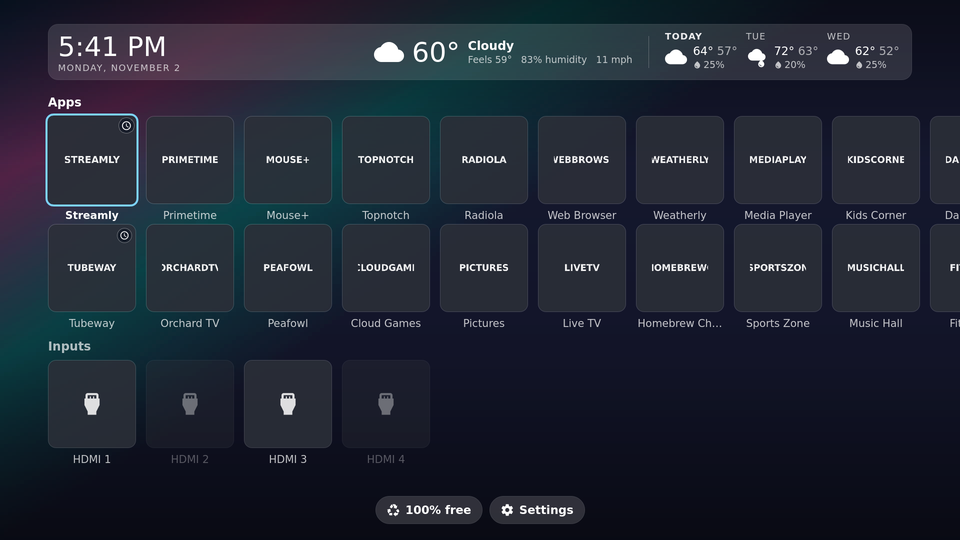
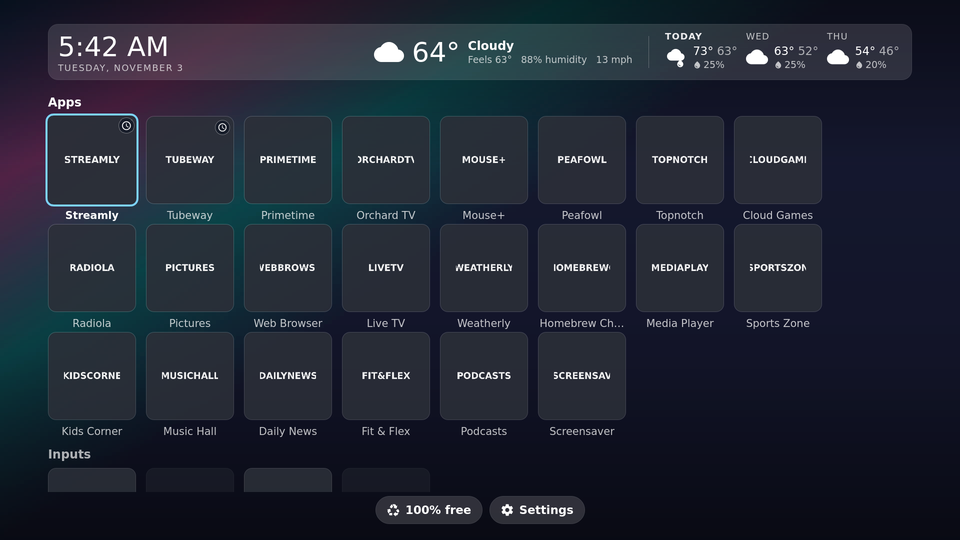
Bands flow across the width; a move is one reorder call
- TileRow: a Grid that fills each row across the width (eight on 1080p) and wraps into as many rows as needed, in place of two fixed column-major rows; Left/Right step one place, Up/Down a row; wheel steps one
- Dashboard: `rows: 2` dropped; moveGrabbed is one `apps.step(id, delta, ...)` call and the focus follows the moved tile; Apps.step takes any delta
- README, dashboards README, CHANGELOG and docs/dashboards/*.png updated
- Testing: lab/preview.sh home and move scenarios on the PC; row move with injected keys and screenshots on the Gym CX

diff --git a/qml/ui/TileRow.qml b/qml/ui/TileRow.qml
@@ -1,6 +1,6 @@
-// A captioned band of tiles, one or two rows high, that scrolls sideways. The model is a
-// JS array of objects with title, icon, iconName, color and dim; with rows = 2 the
-// entries fill each column top to bottom, then the next column; running marks an open app. activated(index, entry)
+// A captioned band of tiles that flows like text: left to right across the width, then
+// the next row, as many rows as the entries need. The model is a JS array of objects
+// with title, icon, iconName and dim; running marks an open app. activated(index, entry)
 // fires on OK or a click, longPressed(index, entry) when OK is held or the pointer
 // pressed and held; index is the position in entries. A collapsible band has a header
 // that takes the focus (Up from the top row), and OK on it folds the tiles away.
@@ -10,7 +10,6 @@ FocusScope {
     id: row
     property string label: ""
     property var entries: []
-    property int rows: 1
     property color accent: "#7dd3fc"
     property color ink: "white"
     property color glass: "white"
@@ -19,19 +18,21 @@ FocusScope {
     property bool collapsed: false
     property int tileWidth: 176
     property int tileHeight: 176
+    property int spacing: 20
     property color surface: "#2b2f38"
     property int currentIndex: 0             // position in entries
-    readonly property int columns: Math.ceil(entries.length / rows)
+    readonly property int columns: Math.max(1, Math.floor((width - 192 + spacing) / (tileWidth + spacing)))
+    readonly property int rowCount: Math.ceil(entries.length / columns)
     readonly property var currentEntry: currentIndex >= 0 && currentIndex < entries.length ? entries[currentIndex] : null
     signal activated(int index, var entry)
     signal longPressed(int index, var entry)
-    signal moveRequested(int delta)          // arrows while a tile is lifted: ±1 up or down, ±rows left or right
+    signal moveRequested(int delta)          // arrows while a tile is lifted: ±1 along the flow, ±columns a row up or down
     signal toggled()                         // OK on the header of a collapsible band
 
     readonly property int captionHeight: 32
     readonly property int tilePitch: tileHeight + 32 + 8
     readonly property bool folded: collapsible && collapsed
-    implicitHeight: captionHeight + (folded ? 8 : 12 + rows * tilePitch)
+    implicitHeight: captionHeight + (folded ? 8 : 12 + rowCount * tilePitch)
     height: visible ? implicitHeight : 0
     width: parent ? parent.width : 1920
 
@@ -42,24 +43,17 @@ FocusScope {
 
     function clamp(i) { return Math.max(0, Math.min(i, entries.length - 1)); }
     function setIndex(i) { wanted = i; currentIndex = clamp(i); }
-    onCurrentIndexChanged: {
-        list.currentIndex = Math.max(0, Math.floor(currentIndex / rows));
-        if (!restoring) wanted = currentIndex;
-    }
-    // The list resets its position when the entries change; keep the user's place.
+    onCurrentIndexChanged: if (!restoring) wanted = currentIndex
+    // The entries change under the user (a move, a refresh); keep their place.
     property int wanted: 0
     property bool restoring: false
     onEntriesChanged: {
         restoring = true;
-        Qt.callLater(function () {
-            row.currentIndex = row.clamp(row.wanted);
-            list.currentIndex = Math.max(0, Math.floor(row.currentIndex / row.rows));
-            row.restoring = false;
-        });
+        Qt.callLater(function () { row.currentIndex = row.clamp(row.wanted); row.restoring = false; });
     }
 
     // Pointer: the tile under the moving pointer takes the focus and the wheel steps
-    // along the band. A tile that slides under a still pointer is left alone, so a
+    // along the flow. A tile that slides under a still pointer is left alone, so a
     // scroll the pointer started does not run on by itself.
     property point pointer: Qt.point(-1, -1)
     Timer { id: settle; interval: 250 }
@@ -79,9 +73,7 @@ FocusScope {
     function wheeled(delta) {
         if (row.lifted || !delta) return;
         if (!row.activeFocus) row.forceActiveFocus();
-        var next = currentIndex + (delta < 0 ? rows : -rows);
-        if (next >= entries.length && Math.floor(currentIndex / rows) < columns - 1) next = entries.length - 1;
-        setIndex(next);
+        setIndex(currentIndex + (delta < 0 ? 1 : -1));
         settle.restart();
     }
 
@@ -142,33 +134,22 @@ FocusScope {
         }
     }
 
-    ListView {
-        id: list
+    Item {
+        id: grid
         anchors { left: parent.left; right: parent.right; top: header.bottom; topMargin: 12 }
-        height: row.rows * row.tilePitch
+        height: row.rowCount * row.tilePitch
         visible: !row.folded
-        orientation: ListView.Horizontal
-        spacing: 20
-        leftMargin: 96; rightMargin: 96
         focus: !row.headerFocus
-        clip: false
-        interactive: false
-        keyNavigationEnabled: false          // the keys are handled below, so two rows work
-        model: row.columns
-        highlightMoveDuration: 160
-        preferredHighlightBegin: 96
-        preferredHighlightEnd: row.width - 96 - row.tileWidth
-        highlightRangeMode: ListView.ApplyRange
-        boundsBehavior: Flickable.StopAtBounds
 
-        delegate: Column {
-            property int column: index
-            spacing: 8
+        Grid {
+            x: 96
+            columns: row.columns
+            columnSpacing: row.spacing
+            rowSpacing: 8
             Repeater {
-                model: Math.max(0, Math.min(row.rows, row.entries.length - column * row.rows))
+                model: row.entries.length
                 Tile {
-                    readonly property int flat: column * row.rows + index
-                    readonly property var entry: row.entries[flat] || ({})
+                    readonly property var entry: row.entries[index] || ({})
                     tileWidth: row.tileWidth; tileHeight: row.tileHeight
                     title: entry.title || ""
                     icon: entry.icon || ""
@@ -176,19 +157,19 @@ FocusScope {
                     dim: !!entry.dim
                     running: !!entry.running
                     accent: row.accent; ink: row.ink; glass: row.glass; surface: row.surface
-                    current: list.activeFocus && flat === row.currentIndex
+                    current: grid.activeFocus && index === row.currentIndex
                     lifted: current && row.lifted
                     MouseArea {
                         anchors.fill: parent
                         hoverEnabled: true
-                        onPositionChanged: if (!pressed) row.pointed(flat, mapToItem(null, mouse.x, mouse.y))
+                        onPositionChanged: if (!pressed) row.pointed(index, mapToItem(null, mouse.x, mouse.y))
                         onClicked: {
-                            if (!row.lifted) row.pick(flat);
+                            if (!row.lifted) row.pick(index);
                             row.activated(row.currentIndex, row.entries[row.currentIndex]);
                         }
                         onPressAndHold: {
                             if (row.lifted) return;
-                            row.pick(flat);
+                            row.pick(index);
                             row.held = true;
                             row.longPressed(row.currentIndex, row.entries[row.currentIndex]);
                         }
@@ -201,28 +182,27 @@ FocusScope {
 
         Keys.priority: Keys.BeforeItem
         Keys.onPressed: {
-            var i = row.currentIndex, n = row.entries.length, r = row.rows, k = event.key;
+            var i = row.currentIndex, n = row.entries.length, c = row.columns, k = event.key;
+            var atEnd = i % c === c - 1 || i + 1 >= n, lastRow = i + c >= n;
             if (row.isOk(k)) { row.okPressed(event); return; }
             if (k !== Qt.Key_Left && k !== Qt.Key_Right && k !== Qt.Key_Up && k !== Qt.Key_Down) return;
             if (row.lifted) {
-                if (k === Qt.Key_Left && i - r >= 0) row.moveRequested(-r);
-                else if (k === Qt.Key_Right && i + r < n) row.moveRequested(r);
-                else if (k === Qt.Key_Up && i % r > 0) row.moveRequested(-1);
-                else if (k === Qt.Key_Down && i % r < r - 1 && i + 1 < n) row.moveRequested(1);
+                if (k === Qt.Key_Left && i > 0) row.moveRequested(-1);
+                else if (k === Qt.Key_Right && i + 1 < n) row.moveRequested(1);
+                else if (k === Qt.Key_Up && i - c >= 0) row.moveRequested(-c);
+                else if (k === Qt.Key_Down && !lastRow) row.moveRequested(c);
+                else if (k === Qt.Key_Down && Math.floor(i / c) < row.rowCount - 1) row.moveRequested(n - 1 - i);
                 event.accepted = true;           // a lifted tile does not leave its band
                 return;
             }
-            if (k === Qt.Key_Left) { if (i - r >= 0) row.setIndex(i - r); event.accepted = true; }
-            else if (k === Qt.Key_Right) {
-                if (i + r < n) row.setIndex(i + r);
-                else if (Math.floor(i / r) < row.columns - 1) row.setIndex(n - 1);
-                event.accepted = true;
-            }
+            if (k === Qt.Key_Left) { if (i % c > 0) row.setIndex(i - 1); event.accepted = true; }
+            else if (k === Qt.Key_Right) { if (!atEnd) row.setIndex(i + 1); event.accepted = true; }
             // Up at the top row goes to the band's header if it has one, else to the band
             // above; Down at the bottom row goes to the band below.
-            else if (k === Qt.Key_Up && i % r > 0) { row.setIndex(i - 1); event.accepted = true; }
+            else if (k === Qt.Key_Up && i - c >= 0) { row.setIndex(i - c); event.accepted = true; }
             else if (k === Qt.Key_Up && row.collapsible) { row.onHeader = true; event.accepted = true; }
-            else if (k === Qt.Key_Down && i % r < r - 1 && i + 1 < n) { row.setIndex(i + 1); event.accepted = true; }
+            else if (k === Qt.Key_Down && !lastRow) { row.setIndex(i + c); event.accepted = true; }
+            else if (k === Qt.Key_Down && Math.floor(i / c) < row.rowCount - 1) { row.setIndex(n - 1); event.accepted = true; }
         }
         Keys.onReleased: if (row.isOk(event.key)) row.okReleased(event)
     }

diff --git a/qml/dashboards/glass/Dashboard.qml b/qml/dashboards/glass/Dashboard.qml
@@ -168,22 +168,15 @@ FocusScope {
         }
     }
 
-    // A move of more than one place is that many single steps, so the TV's own
-    // reorder call is used as it was tested. The band's list is read again before each
-    // step, since every step changes the order; the focus then follows the moved tile.
+    // The lifted tile takes the place of the tile delta positions along its band (a row
+    // up or down is a whole row of positions); the focus then follows the moved tile.
     property var grabbedRow: null            // the band the lifted tile is in
     function moveGrabbed(delta) {
         var band = grabbedRow || appsRow, system = band === systemRow, id = grabbed;
-        var dir = delta < 0 ? -1 : 1, left = Math.abs(delta);
-        function place() {
+        apps.step(id, delta, bandLps(system), function (ok) {
             var lps = bandLps(system);
             for (var i = 0; i < lps.length; i++) if (lps[i].launchPointId === id) { band.setIndex(i); return; }
-        }
-        function one() {
-            if (!left--) { place(); return; }
-            apps.step(id, dir, bandLps(system), function (ok) { if (ok) one(); else place(); });
-        }
-        one();
+        });
     }
 
     function freeMemory() {
@@ -474,7 +467,6 @@ FocusScope {
                 id: appsRow
                 onActiveFocusChanged: if (activeFocus) home.reveal(appsRow)
                 label: home.editMode ? "Apps  ·  editing" : "Apps"
-                rows: 2
                 entries: home.appEntries()
                 accent: home.accent; ink: home.ink; glass: home.glass; surface: home.surface
                 lifted: home.grabbed !== "" && home.grabbedRow !== systemRow

diff --git a/qml/models/Apps.qml b/qml/models/Apps.qml
@@ -74,10 +74,12 @@ Item {
 
     // Moves a tile one step left (-1) or right (+1) past its neighbour in the list
     // on screen (all tiles while editing, shown tiles otherwise).
-    function step(lpId, dir, onScreen, done) {
+    // Moves lpId delta places along onScreen (the tiles the user sees, in order), to the
+    // TV's position of the tile now at that place.
+    function step(lpId, delta, onScreen, done) {
         var vis = onScreen, vi = -1;
         for (var i = 0; i < vis.length; i++) if (vis[i].launchPointId === lpId) vi = i;
-        var ti = vi + dir;
+        var ti = vi + delta;
         if (vi < 0 || ti < 0 || ti >= vis.length) { if (done) done(false); return; }
         var target = indexOfLp(vis[ti].launchPointId);
         luna.call("com.webos.applicationManager", "moveLaunchPoint",

diff --git a/README.md b/README.md
@@ -34,7 +34,7 @@ LG's Home was not watched for comparison.
 ## What you get
 
 - **A bar at the top** with the clock and, from Home Assistant, the weather now and the next three days (high, low, chance of rain).
-- **Rows:** apps in the order the TV reports them, two rows high so fewer need scrolling to, with a clock badge on each app that is open; a System apps band under them for the apps you move there, which folds away to its name (OK on the name opens it again); inputs.
+- **Rows:** apps in the order the TV reports them, flowing across the width and down as many rows as they need (eight to a row), with a clock badge on each app that is open; a System apps band under them for the apps you move there, which folds away to its name (OK on the name opens it again); inputs.
 - **Hold OK on an app or input** for its menu: Open, Force stop (while it runs), Hide or Show, Move, and Move to System apps or back to Apps. Inputs get Open and Hide or Show.
 - **A bar at the bottom:** a Free up memory button (a recycling icon and the share of the memory for apps that is free) and a Settings button, centered. The share is LG's own "usable" figure over the most that figure has been on this TV, so it reads near 100% with nothing open; "Reset launcher settings" starts that over.
 - **Arrow keys or the remote's pointer.** The tile under the moving pointer takes the focus, a click is OK, and the wheel steps along a row. A click beside a menu closes it. Moving a tile in edit mode is done with the arrow keys.
@@ -138,7 +138,7 @@ scripts/uninstall.sh <tv-ip>
 
 **Tested on the CX only:** restoring the launcher from a snapshot (the C5 does not use one).
 
-**The current look** (the two app rows, the bars at the top and bottom, the weather, the settings page, edit mode and its menu) was checked on the CX and the C5 once each, with the weather coming from Home Assistant, and with `lab/preview.sh` on a PC. Moving a tile across a column (two reorder steps) was tried on the PC only. The hold-OK menu (with an injected key held 0.9 s and 2 s), moving an app to System apps and back, and folding and unfolding the band were checked on both once. With the Magic Remote's pointer showing, a held OK is a held click; the tile under the pointer ignores the pointer's movement while the button is down, so the menu keeps the focus (reported once, fixed, not re-tried by hand).
+**The current look** (the flowing app rows, the bars at the top and bottom, the weather, the settings page, edit mode and its menu) was checked on the CX and the C5 once each, with the weather coming from Home Assistant, and with `lab/preview.sh` on a PC. Moving a tile a row up or down (one reorder call over a whole row) was tried on the PC and the Gym once. The hold-OK menu (with an injected key held 0.9 s and 2 s), moving an app to System apps and back, and folding and unfolding the band were checked on both once. With the Magic Remote's pointer showing, a held OK is a held click; the tile under the pointer ignores the pointer's movement while the button is down, so the menu keeps the focus (reported once, fixed, not re-tried by hand).
 
 **Pointer:** tried by hand with the remote on the CX and the C5, and reported working on both. Hover, click, wheel and the menus were not checked one by one.
 

diff --git a/CHANGELOG.md b/CHANGELOG.md
@@ -10,14 +10,14 @@
 - `demo` config key: stand-in app names and no app icons, for screenshots.
 - Pointer support: the tile or menu line under the remote's pointer takes the focus, a click is OK, the wheel steps along a row.
 - C5: Home no longer comes back over the screensaver when the TV relaunches it as the last app.
-- Moving a tile within its band by a column (two single steps) undid itself, since the second step read the order from before the first; the band's list is read again before each step and the focus follows the moved tile.
+- Bands flow like text: tiles fill each row across the width (eight on a 1080p screen), then the next row, as many rows as needed, in place of two fixed rows filled column by column that left the right of the screen empty. Moving a lifted tile is one reorder call for any distance, and the focus follows the moved tile.
 - CX: `deploy.sh` over a running launcher left the old files mounted (the unmount was busy); it now detaches the mount lazily and reports whether the new files are mounted. The hook's failsafe unmounts the same way.
 - CX hook: the start check waits up to 10 s for the ended Home process to be gone before it watches for the new one.
 - The health check baseline is recorded at every install, not only the first.
 - C5: the host keeps its event log in the settings file only with `debug` on; its app status subscription, which never delivered an update, is removed.
 - `deploy.sh` installs only on the tested model and webOS pairs; `FORCE=1` overrides. The boot hooks do nothing on any other webOS version unless the install was forced.
 - New look for the glass theme: rounded square tiles, all on one dark gray, with the app's name underneath, a bar at the top with the clock and the weather, a bottom bar with the remote's keys, a settings page with the sections down the left. The blurred background is no longer used.
-- Apps in two rows, so fewer need scrolling to. In edit mode Up and Down move a tile within its column, Left and Right across.
+- Apps flow across the width into rows, so fewer need scrolling to. A lifted tile moves one place with Left and Right and a row with Up and Down.
 - The TV row is gone: LG's settings and edit mode are on the settings page; Free up memory is a button at the bottom, a recycling icon with the share of the memory for apps that is free, in place of the figure at the top (`showMemory` is no longer read). The share is LG's "usable" figure from `com.webos.memorymanager/getCurrentMemState` over the most it has reported on this TV (`memoryPeakMb` in the store).
 - Weather from Home Assistant in the bar at the top (`weather` in `config.json`): the conditions now and three days of high, low and chance of rain.
 - `lab/preview.sh` runs the launcher on the PC with made-up apps and takes screenshots.

diff --git a/qml/dashboards/README.md b/qml/dashboards/README.md
@@ -4,7 +4,7 @@ A dashboard is what the TV shows when Home is pressed. Each one is a folder here
 
 | Folder | What it is |
 |---|---|
-| `glass/` | The launcher: a bar with the clock and the weather, two rows of app tiles with a badge on the open ones, a System apps band that folds away, the inputs, a bottom bar with Free up memory and Settings, a menu on a held OK, edit mode, the settings page. |
+| `glass/` | The launcher: a bar with the clock and the weather, app tiles flowing across the width with a badge on the open ones, a System apps band that folds away, the inputs, a bottom bar with Free up memory and Settings, a menu on a held OK, edit mode, the settings page. |
 | `nord/` | `glass` in the Nord colors: cool blue-greys, frost accents. A few lines that set a palette. |
 | `gruvbox/` | `glass` in the Gruvbox dark colors: warm browns, cream text, bright accents. |
 | `starter/` | The time and one row of app names. About 50 lines; copy it to begin. |
@@ -79,7 +79,7 @@ Copy `nord/` and change the values. `palette` has `top` and `bottom` (the backgr
 | `tv.bus.call(service, method, params, cb)` | Any other luna call, made as Home. `cb(ok, response)`. With `subscribe: true` it returns a handle for `tv.bus.cancel(handle)`. |
 | `tv.overlayOnly` | `true` on webOS 25, where Home always sits on top of the app in front. |
 
-The glass parts in `qml/ui/` can be used with `import "../../ui"`: `TileRow` (a captioned band of `Tile`s, one or two rows high), `Card`, `Pill`, `HintBar`, `Icon` and `WeatherIcon` (Material Icons, from the font in `qml/ui/fonts/`), `Sheet`, `Toast` and `SettingsPanel`.
+The glass parts in `qml/ui/` can be used with `import "../../ui"`: `TileRow` (a captioned band of `Tile`s that flows across the width into as many rows as needed), `Card`, `Pill`, `HintBar`, `Icon` and `WeatherIcon` (Material Icons, from the font in `qml/ui/fonts/`), `Sheet`, `Toast` and `SettingsPanel`.
 
 ## Trying it on the PC
 
